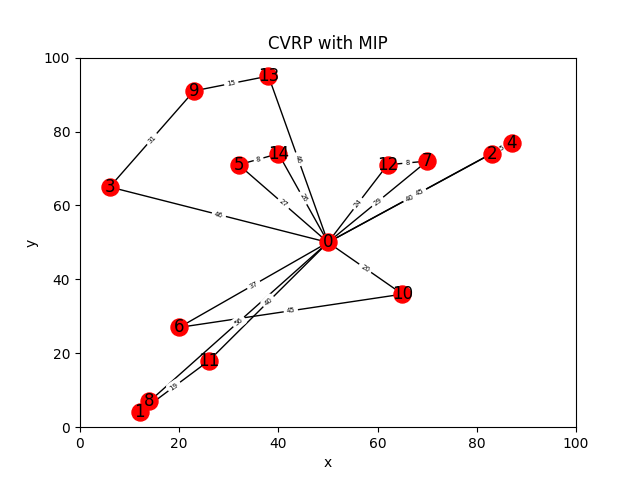
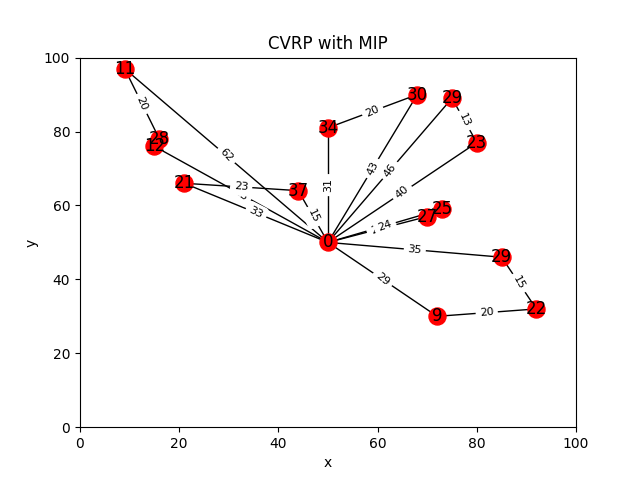
ノードに需要量表示

diff --git a/CVRPwithMIP.py b/CVRPwithMIP.py
@@ -37,10 +37,11 @@ G = nx.Graph()
 N = []
 for i in range(num_client):
     N.append(i)
+    #N.append(df.ix[i].d)
 
 pos = {}
 for position in range(num_client):
-    pos[N[position]] = (df.ix[position].x,df.ix[position].y )
+    pos[position] = (df.ix[position].x,df.ix[position].y )
 
 
 #全ての顧客間の距離テーブルを作成して、np.arrayを返す。
@@ -151,10 +152,19 @@ plt.grid()
 plt.show()
 """
 
+#print("------problem----")
+#print(problem)
+
+labels = {}
+for i in range(num_client):
+    labels[i] = df.ix[i].d
+
+
 G.add_nodes_from(N)
 G.add_edges_from(E)
 
-nx.draw_networkx(G,pos,with_labels=True,node_color='r', node_size=150)
+nx.draw_networkx(G,pos,with_labels=False,node_color='r', node_size=150)
+nx.draw_networkx_labels(G,pos,labels, font_size=12)
 nx.draw_networkx_edge_labels(G,pos,edge_labels=edge_labels, font_size=8)
 
 plt.legend()
